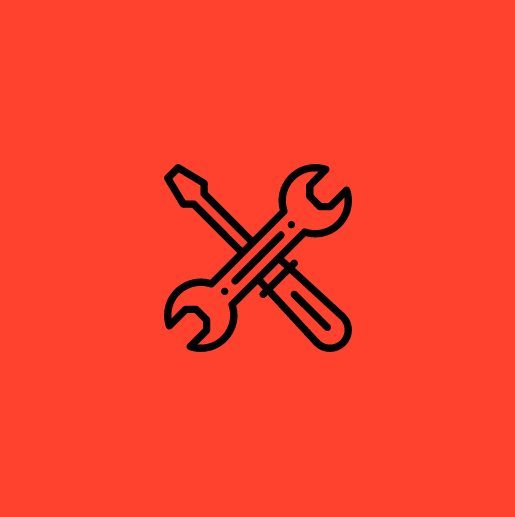
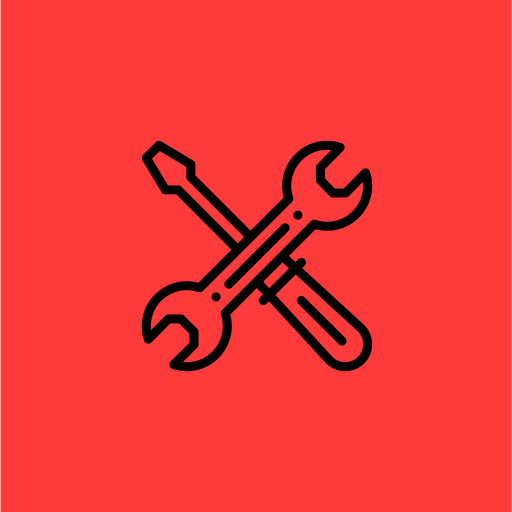
Deploy

Changed region(s): [[0.25, 0.25, 0.75, 0.75]]

diff --git a/static/html/mechanics/dashboard.html b/static/html/mechanics/dashboard.html
@@ -1,105 +1,220 @@
 <style>
 .circle-container {
   position: relative;
-  width: 20em;
-  height: 20em;
+  width: 60em;
+  height: 60em;
   border-radius: 50%;
   padding: 0;
   list-style: none;
-  margin: 5em auto 0;
-  border: solid 5px whitesmoke;
+  margin: 5em auto 5em ;
+  border: solid 5px none;
+  background:white url("https://external-content.duckduckgo.com/iu/?u=https%3A%2F%2Ftse3.mm.bing.net%2Fth%3Fid%3DOIP.DIuMKi9bVVnRYJto4NMeKwHaHa%26pid%3DApi&f=1") no-repeat center;
+  background-size: 900px 900px;
 }
+ 
 .circle-container > * {
   display: block;
   position: absolute;
   top: 50%;
   left: 50%;
-  margin: -3em;
-  width: 20em;
-  height: 20em;
+  margin-top: -2.4em;
+  margin-left:-2.4em;
+  width: 5em;
+  height: 5em;
 }
+  
 .circle-container > *:nth-of-type(1) {
-  -webkit-transform: rotate(0deg) translate(10em) rotate(0deg);
-          transform: rotate(0deg) translate(10em) rotate(0deg);
-}
+  -webkit-transform: rotate(240deg) translate(14em) rotate(-240deg);
+          transform: rotate(240deg) translate(14em) rotate(-240deg);
+}  
+
 .circle-container > *:nth-of-type(2) {
-  -webkit-transform: rotate(60deg) translate(10em) rotate(-60deg);
-          transform: rotate(60deg) translate(10em) rotate(-60deg);
+  -webkit-transform: rotate(0deg) translate(7em) rotate(0deg);
+          transform: rotate(0deg) translate(7em) rotate(0deg);
 }
 .circle-container > *:nth-of-type(3) {
-  -webkit-transform: rotate(120deg) translate(10em) rotate(-120deg);
-          transform: rotate(120deg) translate(10em) rotate(-120deg);
+  -webkit-transform: rotate(60deg) translate(7em) rotate(-60deg);
+          transform: rotate(60deg) translate(7em) rotate(-60deg);
 }
 .circle-container > *:nth-of-type(4) {
-  -webkit-transform: rotate(180deg) translate(10em) rotate(-180deg);
-          transform: rotate(180deg) translate(10em) rotate(-180deg);
+  -webkit-transform: rotate(120deg) translate(7em) rotate(-120deg);
+          transform: rotate(120deg) translate(7em) rotate(-120deg);
 }
 .circle-container > *:nth-of-type(5) {
-  -webkit-transform: rotate(240deg) translate(10em) rotate(-240deg);
-          transform: rotate(240deg) translate(10em) rotate(-240deg);
+  -webkit-transform: rotate(180deg) translate(7em) rotate(-180deg);
+          transform: rotate(180deg) translate(7em) rotate(-180deg);
 }
 .circle-container > *:nth-of-type(6) {
-  -webkit-transform: rotate(300deg) translate(10em) rotate(-300deg);
-          transform: rotate(300deg) translate(10em) rotate(-300deg);
+  -webkit-transform: rotate(240deg) translate(7em) rotate(-240deg);
+          transform: rotate(240deg) translate(7em) rotate(-240deg);
 }
-
 .circle-container > *:nth-of-type(7) {
-  -webkit-transform: rotate(0deg) translate(20em) rotate(0deg);
-          transform: rotate(0deg) translate(20em) rotate(0deg);
+  -webkit-transform: rotate(300deg) translate(7em) rotate(-300deg);
+          transform: rotate(300deg) translate(7em) rotate(-300deg);
 }
 
 .circle-container > *:nth-of-type(8) {
-  -webkit-transform: rotate(60deg) translate(20em) rotate(-60deg);
-          transform: rotate(60deg) translate(20em) rotate(-60deg);
+  -webkit-transform: rotate(0deg) translate(14em) rotate(0deg);
+          transform: rotate(0deg) translate(14em) rotate(0deg);
 }
 .circle-container > *:nth-of-type(9) {
-  -webkit-transform: rotate(120deg) translate(20em) rotate(-120deg);
-          transform: rotate(120deg) translate(20em) rotate(-120deg);
+  -webkit-transform: rotate(60deg) translate(14em) rotate(-60deg);
+          transform: rotate(60deg) translate(14em) rotate(-60deg);
 }
 .circle-container > *:nth-of-type(10) {
-  -webkit-transform: rotate(180deg) translate(20em) rotate(-180deg);
-          transform: rotate(180deg) translate(20em) rotate(-180deg);
+  -webkit-transform: rotate(120deg) translate(14em) rotate(-120deg);
+          transform: rotate(120deg) translate(14em) rotate(-120deg);
 }
 .circle-container > *:nth-of-type(11) {
-  -webkit-transform: rotate(240deg) translate(20em) rotate(-240deg);
-          transform: rotate(240deg) translate(20em) rotate(-240deg);
+  -webkit-transform: rotate(180deg) translate(14em) rotate(-180deg);
+          transform: rotate(180deg) translate(14em) rotate(-180deg);
 }
 .circle-container > *:nth-of-type(12) {
-  -webkit-transform: rotate(300deg) translate(20em) rotate(-300deg);
-          transform: rotate(300deg) translate(20em) rotate(-300deg);
+  -webkit-transform: rotate(240deg) translate(14em) rotate(-240deg);
+          transform: rotate(240deg) translate(14em) rotate(-240deg);
+}
+.circle-container > *:nth-of-type(13) {
+  -webkit-transform: rotate(300deg) translate(14em) rotate(-300deg);
+          transform: rotate(300deg) translate(14em) rotate(-300deg);
 }
 
+
+.circle-container > *:nth-of-type(14) {
+  -webkit-transform: rotate(0deg) translate(21em) rotate(0deg);
+          transform: rotate(0deg) translate(21em) rotate(0deg);
+}
+.circle-container > *:nth-of-type(15) {
+  -webkit-transform: rotate(60deg) translate(21em) rotate(-60deg);
+          transform: rotate(60deg) translate(21em) rotate(-60deg);
+}
+.circle-container > *:nth-of-type(16) {
+  -webkit-transform: rotate(120deg) translate(21em) rotate(-120deg);
+          transform: rotate(120deg) translate(21em) rotate(-120deg);
+}
+.circle-container > *:nth-of-type(17) {
+  -webkit-transform: rotate(180deg) translate(21em) rotate(-180deg);
+          transform: rotate(180deg) translate(21em) rotate(-180deg);
+}
+.circle-container > *:nth-of-type(18) {
+  -webkit-transform: rotate(240deg) translate(21em) rotate(-240deg);
+          transform: rotate(240deg) translate(21em) rotate(-240deg);
+}
+.circle-container > *:nth-of-type(19) {
+  -webkit-transform: rotate(300deg) translate(21em) rotate(-300deg);
+          transform: rotate(300deg) translate(21em) rotate(-300deg);
+}
+
+.circle-container > *:nth-of-type(20) {
+  -webkit-transform: rotate(0deg) translate(28em) rotate(0deg);
+          transform: rotate(0deg) translate(28em) rotate(0deg);
+}
+.circle-container > *:nth-of-type(21) {
+  -webkit-transform: rotate(60deg) translate(28em) rotate(-60deg);
+          transform: rotate(60deg) translate(28em) rotate(-60deg);
+}
+.circle-container > *:nth-of-type(22) {
+  -webkit-transform: rotate(120deg) translate(28em) rotate(-120deg);
+          transform: rotate(120deg) translate(28em) rotate(-120deg);
+}
+.circle-container > *:nth-of-type(23) {
+  -webkit-transform: rotate(180deg) translate(28em) rotate(-180deg);
+          transform: rotate(180deg) translate(28em) rotate(-180deg);
+}
+.circle-container > *:nth-of-type(24) {
+  -webkit-transform: rotate(240deg) translate(28em) rotate(-240deg);
+          transform: rotate(240deg) translate(28em) rotate(-240deg);
+}
+.circle-container > *:nth-of-type(25) {
+  -webkit-transform: rotate(300deg) translate(28em) rotate(-300deg);
+          transform: rotate(300deg) translate(28em) rotate(-300deg);
+}
+
+
+.circle-container > *:nth-of-type(26) {
+  -webkit-transform: rotate(0deg) translate(35em) rotate(0deg);
+          transform: rotate(0deg) translate(35em) rotate(0deg);
+}
+.circle-container > *:nth-of-type(27) {
+  -webkit-transform: rotate(60deg) translate(35em) rotate(-60deg);
+          transform: rotate(60deg) translate(35em) rotate(-60deg);
+}
+.circle-container > *:nth-of-type(28) {
+  -webkit-transform: rotate(120deg) translate(35em) rotate(-120deg);
+          transform: rotate(120deg) translate(35em) rotate(-120deg);
+}
+.circle-container > *:nth-of-type(29) {
+  -webkit-transform: rotate(180deg) translate(35em) rotate(-180deg);
+          transform: rotate(180deg) translate(35em) rotate(-180deg);
+}
+.circle-container > *:nth-of-type(30) {
+  -webkit-transform: rotate(240deg) translate(35em) rotate(-240deg);
+          transform: rotate(240deg) translate(35em) rotate(-240deg);
+}
+.circle-container > *:nth-of-type(31) {
+  -webkit-transform: rotate(300deg) translate(35em) rotate(-300deg);
+          transform: rotate(300deg) translate(35em) rotate(-300deg);
+}
 .circle-container img {
+  position:relative;
   display: block;
   max-width: 100%;
   border-radius: 50%;
-  -webkit-filter: grayscale(100%);
-          filter: grayscale(100%);
-  border: solid 5px whitesmoke;
+  -webkit-filter: grayscale(50%);
+          filter: grayscale(50%);
+  border: solid 5px none;
   -webkit-transition: .15s;
-  transition: .15s;
+  transition: .15s;  
 }
+  
 .circle-container img:hover {
   -webkit-filter: grayscale(0);
           filter: grayscale(0);
-     transform: scale(1.3); 
+          transform: scale(1.3);    
 }
+  
+
+
+
 </style>
+
 <div class="container-fluid" style="width:100%; text-align:center;">
+
+   
 <div class='circle-container'>
-  <li><img src='http://lorempixel.com/100/100/city'></li>
-  <li><img src='http://lorempixel.com/100/100/nature'></li>
-  <li><img src='http://lorempixel.com/100/100/abstract'></li>
-  <li><img src='http://lorempixel.com/100/100/cats'></li>
-  <li><img src='http://lorempixel.com/100/100/food'></li>
-  <li><img src='http://lorempixel.com/100/100/animals'></li>
-    <li><img src='http://lorempixel.com/100/100/animals'></li>
-     <li><img src='http://lorempixel.com/100/100/nature'></li>
-  <li><img src='http://lorempixel.com/100/100/abstract'></li>
-  <li><img src='http://lorempixel.com/100/100/cats'></li>
-  <li><img src='http://lorempixel.com/100/100/food'></li>
-  <li><img src='http://lorempixel.com/100/100/animals'></li>
-  <hr class="slant-line">
+  <li></li>
+  <li><img class="base" src='http://lorempixel.com/100/100/city'></li>
+  <li><img class="base" src='http://lorempixel.com/100/100/nature'></li>
+  <li><img class="base" src='http://lorempixel.com/100/100/abstract'></li>
+  <li><img class="base" src='http://lorempixel.com/100/100/cats'></li>
+  <li><img class="base" src='http://lorempixel.com/100/100/food'></li>
+  <li><img class="base" src='http://lorempixel.com/100/100/animals'></li> 
+  <li><img class="mechanic" src='http://agmodule.herokuapp.com/media/dashboard_icons/dev_tools.png'></li>
+  <li><img class="mechanic" src='http://lorempixel.com/100/100/cats'></li>
+  <li><img class="mechanic" src='http://lorempixel.com/100/100/animals'></li>
+  <li><img class="mechanic" src='http://lorempixel.com/100/100/food'></li>
+  <li><img class="mechanic" src='http://lorempixel.com/100/100/animals'></li> 
+  <li><img class="mechanic" src='http://lorempixel.com/100/100/animals'></li> 
+  <li><img class="mechanic" src='http://lorempixel.com/100/100/animals'></li>
+  <li><img class="mechanic" src='http://lorempixel.com/100/100/cats'></li>
+  <li><img class="mechanic" src='http://lorempixel.com/100/100/animals'></li>
+  <li><img class="mechanic" src='http://lorempixel.com/100/100/food'></li>
+  <li><img class="mechanic" src='http://lorempixel.com/100/100/animals'></li> 
+  <li><img class="mechanic" src='http://lorempixel.com/100/100/animals'></li> 
+  <li><img class="mechanic" src='http://lorempixel.com/100/100/animals'></li>
+  <li><img class="mechanic" src='http://lorempixel.com/100/100/cats'></li>
+  <li><img class="mechanic" src='http://lorempixel.com/100/100/animals'></li>
+  <li><img class="mechanic" src='http://lorempixel.com/100/100/food'></li>
+  <li><img class="mechanic" src='http://lorempixel.com/100/100/animals'></li> 
+  <li><img class="mechanic" src='http://lorempixel.com/100/100/animals'></li> 
+  
+  <li><h2>Disruptor</h2></li>
+  <li><h2>Free Spirit</h2></li>
+  <li><h2>Achiever</h2></li>
+  <li><h2>Player</h2></li>
+  <li><h2>Socializer</h2></li> 
+  <li><h2>Philantropist</h2></li> 
+
 </div>
   </div>
-
+  
+ 
